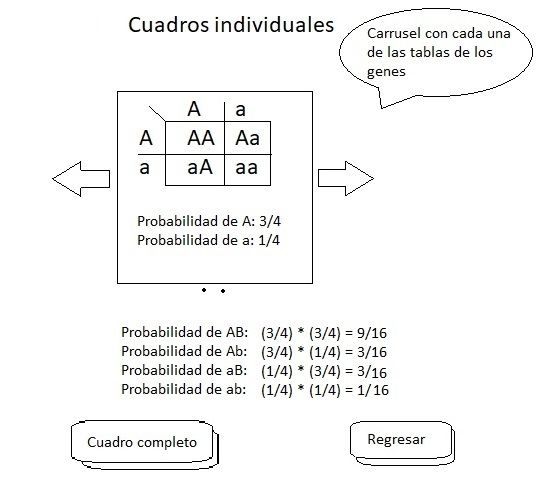
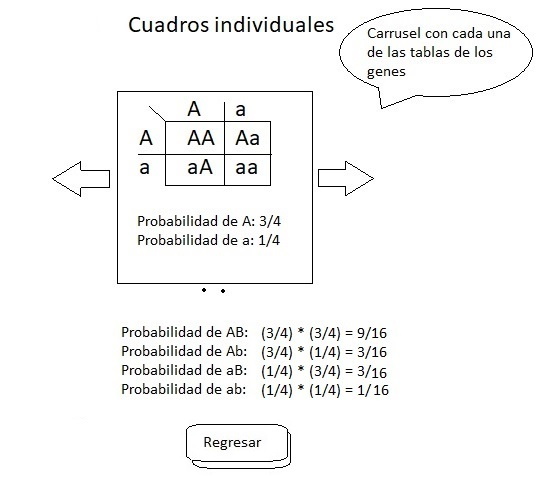
Se agregó diseño

diff --git a/web/js/prin.js b/web/js/prin.js
@@ -6,27 +6,95 @@ function mostrar(elem){
     document.getElementById(elem).style.display = 'block';
 }
 /**
- * Crea n cantidad de inputs respectoa un número
+ * Crea n cantidad de inputs respectoa un nÃºmero
  * @param int n - cantidad de inputs
  * @returns 
  */
-function crearInput(n){
+function crearInput(){
+    var n = parseInt(document.getElementById('txt1').value);
     // Crear nodo de tipo Element
-    var parrafo = document.createElement("p");
-
+    var parrafo = document.getElementById('genes')  //document.createElement("p");
+    var i; //iterador
+    var select;
+    var optArray = [];
+    var textArray = [];
     // Crear nodo de tipo select
-    var select = document.createElement("select");
-    select.id = "cb1";
-    var miOption=document.createElement("option");
-    // Añadimos las propiedades value y label
-    miOption.setAttribute("value","1");
-    miOption.setAttribute("label","casa");
-    miOption.setAttribute("selected","true");
-    // Añadimos el option al select
-    select.appendChild(miOption);
-    // Añadir el nodo Text como hijo del nodo tipo Element
-    parrafo.appendChild(select);
-
+    //Genes de A
+    for(i=0;i<n;i++){
+        select = document.createElement("select");
+        select.name = "cb"+i;
+        optArray.push(document.createElement("option"));
+        // Añadimos las propiedades value y label
+        optArray[3*i].setAttribute("value", ((i+10).toString(36)).toUpperCase() +  ((i+10).toString(36)).toUpperCase());
+        optArray[3*i].setAttribute("label","casa");
+        optArray[3*i].appendChild(document.createTextNode(((i+10).toString(36)).toUpperCase() +  ((i+10).toString(36)).toUpperCase()));
+        optArray[3*i].setAttribute("selected","true");
+        
+        optArray.push(document.createElement("option"));
+        // Añadimos las propiedades value y label
+        optArray[(3*i)+1].setAttribute("value", ((i+10).toString(36)).toUpperCase() + (i+10).toString(36));
+        optArray[(3*i)+1].setAttribute("label","casa");
+        optArray[(3*i)+1].appendChild(document.createTextNode(((i+10).toString(36)).toUpperCase() + (i+10).toString(36)));
+        
+        optArray.push(document.createElement("option"));
+        // Añadimos las propiedades value y label
+        optArray[(3*i)+2].setAttribute("value",(i+10).toString(36) + (i+10).toString(36));
+        optArray[(3*i)+2].setAttribute("label","casa");
+        optArray[(3*i)+2].appendChild(document.createTextNode((i+10).toString(36) + (i+10).toString(36)));
+        
+        
+        // Añadimos el option al select
+        select.appendChild(optArray[3*i]);
+        select.appendChild(optArray[(3*i)+1]);
+        select.appendChild(optArray[(3*i)+2]);
+        
+        // Añadir el nodo Text como hijo del nodo tipo Element
+        parrafo.appendChild(select);
+    }
+    
+    parrafo.appendChild(document.createElement('br'));
+    parrafo.appendChild(document.createTextNode("X"))
+    parrafo.appendChild(document.createElement('br'));
+    
+      
+    
+    
+    
+    //Genes de B
+                  
+    for(i=n;i<(2*n);i++){
+        select = document.createElement("select");
+        select.name = "cb"+i;
+        optArray.push(document.createElement("option"));
+        // Añadimos las propiedades value y label
+        optArray[3*i].setAttribute("value", ((i+10-n).toString(36)).toUpperCase() +  ((i+10-n).toString(36)).toUpperCase());
+        optArray[3*i].setAttribute("label","casa");
+        optArray[3*i].appendChild(document.createTextNode(((i+10-n).toString(36)).toUpperCase() +  ((i+10-n).toString(36)).toUpperCase()));
+        optArray[3*i].setAttribute("selected","true");
+        
+        optArray.push(document.createElement("option"));
+        // Añadimos las propiedades value y label
+        optArray[(3*i)+1].setAttribute("value", ((i+10-n).toString(36)).toUpperCase() + (i+10-n).toString(36));
+        optArray[(3*i)+1].setAttribute("label","casa");
+        optArray[(3*i)+1].appendChild(document.createTextNode(((i+10-n).toString(36)).toUpperCase() + (i+10-n).toString(36)));
+        
+        optArray.push(document.createElement("option"));
+        // Añadimos las propiedades value y label
+        optArray[(3*i)+2].setAttribute("value",(i+10-n).toString(36) + (i+10-n).toString(36));
+        optArray[(3*i)+2].setAttribute("label","casa");
+        optArray[(3*i)+2].appendChild(document.createTextNode((i+10-n).toString(36) + (i+10-n).toString(36)));
+        
+        
+        // Añadimos el option al select
+        select.appendChild(optArray[3*i]);
+        select.appendChild(optArray[(3*i)+1]);
+        select.appendChild(optArray[(3*i)+2]);
+        
+        // Añadir el nodo Text como hijo del nodo tipo Element
+        parrafo.appendChild(select);
+    }   
+                
     // Añadir el nodo Element como hijo de la pagina
-    document.body.appendChild(parrafo);
+    //document.getElementById('genes').appendChild(parrafo);
+    //document.body.appendChild(parrafo); 
 }

diff --git a/web/index.html b/web/index.html
@@ -1,49 +1,26 @@
 <!DOCTYPE html>
 <html>
     <head>
+        <link rel="stylesheet" href="https://stackpath.bootstrapcdn.com/bootstrap/4.1.3/css/bootstrap.min.css" crossorigin="anonymous">
         <meta charset="UTF-8">
         <title>Cálculadora Genética</title>
-        <link href="css/estillo.css" rel="stylesheet" type="text/css"/>
+        <link href="css/estilo.css" rel="stylesheet" type="text/css"/>
+        <script src="https://code.jquery.com/jquery-3.3.1.slim.min.js" crossorigin="anonymous"></script>
+        <script src="https://cdnjs.cloudflare.com/ajax/libs/popper.js/1.14.3/umd/popper.min.js" crossorigin="anonymous"></script>
+        <script src="https://stackpath.bootstrapcdn.com/bootstrap/4.1.3/js/bootstrap.min.js" crossorigin="anonymous"></script>
         <script src="js/prin.js"></script>
+        
     </head>
     <body>
-        <h1>Cálculadora Genética</h1>
-        <!--<button onclick="mostrar('btncal');crearInput(2)">Generar</button>-->
-        <form action="Servlet" method="get">
-            Número de génes por cada padre <input type="text" name="n">
-            <select name="cb0" >
-                <option value="Aa">Aa</option>
-                <option value="AA">AA</option>
-                <option value="aa">aa</option>
-            </select>
-            <select name="cb1">
-                <option value="Bb">Bb</option>
-                <option value="BB">BB</option>
-                <option value="bb">bb</option>
-            </select>
-            <select name="cb2">
-                <option value="Cc">Cc</option>
-                <option value="CC">CC</option>
-                <option value="cc">cc</option>
-            </select>
-            X
-            <select name="cb3">
-                <option value="Aa">Aa</option>
-                <option value="AA">AA</option>
-                <option value="aa">aa</option>
-            </select>
-            <select name="cb4">
-                <option value="Bb">Bb</option>
-                <option value="BB">BB</option>
-                <option value="bb">bb</option>
-            </select>
-            <select name="cb5">
-                <option value="Cc">Cc</option>
-                <option value="CC">CC</option>
-                <option value="cc">cc</option>
-            </select>
-            <!--<br><input id="btncal" type="submit" value="Calcular" style="display:none"/>-->
-            <br><input id="btncal" type="submit" value="Calcular"/>
-        </form>
+        <div class="alert alert-primary">
+            <p><h1>Cálculadora Genética</h1> &nbsp;&nbsp;&nbsp;&nbsp; <h4>Para ver el Recurso educativo clik</h4> <a href="Distrobucionaleatoria.html">aquí</a> </p>
+            <button onclick="mostrar('btncal');crearInput()">Generar</button>
+
+            <form action="Servlet" method="get" id="formulario">
+                Número de génes por cada padre <input type="text" name="n" id="txt1">
+                <div id="genes" ></div>
+                <br><input id="btncal" type="submit" value="Calcular" style="display:none"/>
+            </form>
+        </div>
     </body>
 </html>

diff --git a/src/java/src/Servlet.java b/src/java/src/Servlet.java
@@ -33,34 +33,48 @@ public class Servlet extends HttpServlet {
         out.println("<html>");
         out.println("<head>");
         out.println("<title>Servlet</title>");            
+        out.println("<link rel=\"stylesheet\" href=\"https://stackpath.bootstrapcdn.com/bootstrap/4.1.3/css/bootstrap.min.css\" crossorigin=\"anonymous\">");            
+        out.println("<script src=\"https://code.jquery.com/jquery-3.3.1.slim.min.js\" crossorigin=\"anonymous\"></script>");
+        out.println("<script src=\"https://cdnjs.cloudflare.com/ajax/libs/popper.js/1.14.3/umd/popper.min.js\" crossorigin=\"anonymous\"></script>");
+        out.println("<script src=\"https://stackpath.bootstrapcdn.com/bootstrap/4.1.3/js/bootstrap.min.js\" crossorigin=\"anonymous\"></script>");
         out.println("</head>");
         out.println("<body>");
+        out.println("<div class=\"alert alert-primary\" class = 'rounded'>");
         out.println("Cantidad de genes "+p.getCantGenes());
         out.println("<br>");
         out.println("Genes de A: "+p.genesA.subList(0, p.getGenesA().size()));
         out.println("<br>");
         out.println("Genes de B: "+p.genesB.subList(0, p.getGenesB().size()));
+        out.println("</div>");
         char a = 'a';
         char aux;
+        
         for(int i=0;i<p.getCantGenes();i++){
             aux = (char) (a+i);
-            out.println("<br><br>");
+            out.println("<div class=\"alert alert-dark\" class = 'rounded'>");
             out.println("Cuadro "+i+"<br>");
+            out.println("</div>");
+            out.println("<table class='table table-sm'>");
             ArrayList<String> c = p.generarCruce(i);
+            out.println("<tr>");
             for(int e=0;e<c.size();e++){
-                out.print(c.get(e)+" ");
-                if(e==1) out.println("<br>");
+                out.print("<td>"+c.get(e)+"</td>");
+                if(e==1) out.println("</tr>");
             }
+            out.println("</table>");
             out.println("<br>");
             out.print("Probabilidad de "+aux +" es :"+p.probabilidadAlelo(aux, i)+"<br>");
-            out.print("Probabilidad de "+Character.toUpperCase(aux) +" es :"+p.probabilidadAlelo(Character.toUpperCase(aux),i));
+            out.print("Probabilidad de "+Character.toUpperCase(aux) +" es :"+p.probabilidadAlelo(Character.toUpperCase(aux),i)+"<br><br>");
         }
+        
         out.print("<br><br>");
-        out.print("Lista de cruces :"+p.generarCruce().subList(0, p.generarCruce().size()));
+        out.print("<div class='alert alert-primary'> Lista de cruces :"+p.generarCruce().subList(0, p.generarCruce().size())+"</div>");
         out.print("<br><br>");
+        out.print("<table class='table table-sm'>");
         for(String s: p.generarCruce()){
-            out.print("Probabilidad "+s+" :"+p.probabilidadGenotipo(s)+"<br>");
+            out.print("<tr><td>Probabilidad "+s+" :"+p.probabilidadGenotipo(s)+"</tr></td>");
         }
+        out.println("</table>");
         out.println("</body>");
         out.println("</html>");
     }
